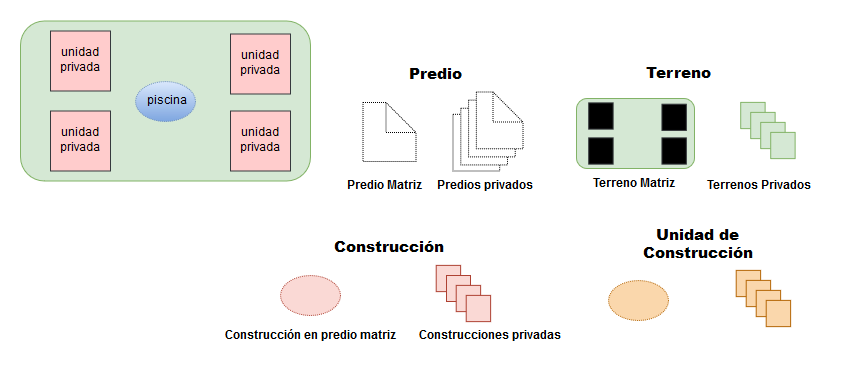
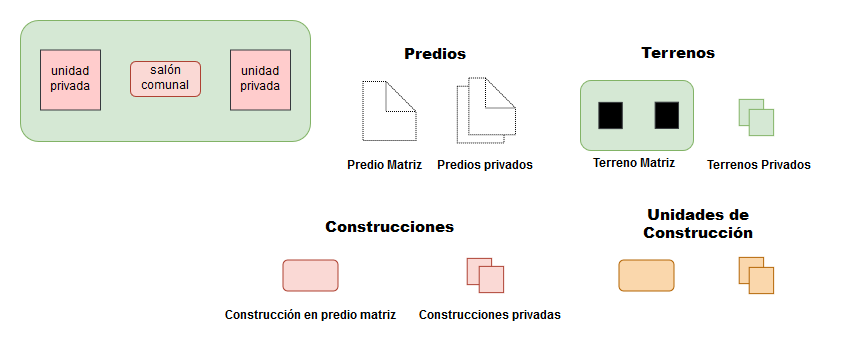
Actualización de caso condominio

diff --git a/lote/README.md b/lote/README.md
@@ -12,7 +12,7 @@ Para representar este caso de acuerdo a LADM se necesitarán de las siguientes t
 
 # Flujo de almacenamiento
 
-1. **Llenar tabla Terreno**: En esta tabla se agregan los datos relacionados con la representación espacial, tales como el área y la geometría, del polígono de terreno (verde)
+1. **Llenar tabla Terreno**: En esta tabla se agregan los datos relacionados con la representación espacial, tales como el área y la geometría, del polígono de terreno
 2. **Llenar tabla Predio**: En esta tabla se agregan datos alfanuméricos del predio, tales como el Número Predial, FMI, etc; eligiendo como Tipo el valor "NPH".
 3. **Llenar relación UEBAUnit vinculando Terreno con Predio**
 4. **Llenar tabla COL_Interesado**: Esta tabla contiene los datos de la persona (natural o jurídica) que ejerce algún derecho sobre el predio

diff --git a/condominio/README.md b/condominio/README.md
@@ -2,15 +2,13 @@
 
 ![Caso Condominio](https://github.com/AgenciaImplementacion/condiciones_predios/blob/master/condominio/condominio-Caso.png)
 
-Un condominio que consta de una piscina y cuatro unidades privadas
+Un condominio que consta de una piscina y dos unidades privadas
 
 # Representación LADM
 
 Para representar este caso de acuerdo a LADM se necesitarán de las siguientes tablas del modelo (v 2.2.1)
 
 ![Diagrama Entidad Relación simplificado](https://github.com/AgenciaImplementacion/condiciones_predios/blob/master/condominio/condominio-ER.png)
-
-# Flujo de almacenamiento
 
 
 # Productos
